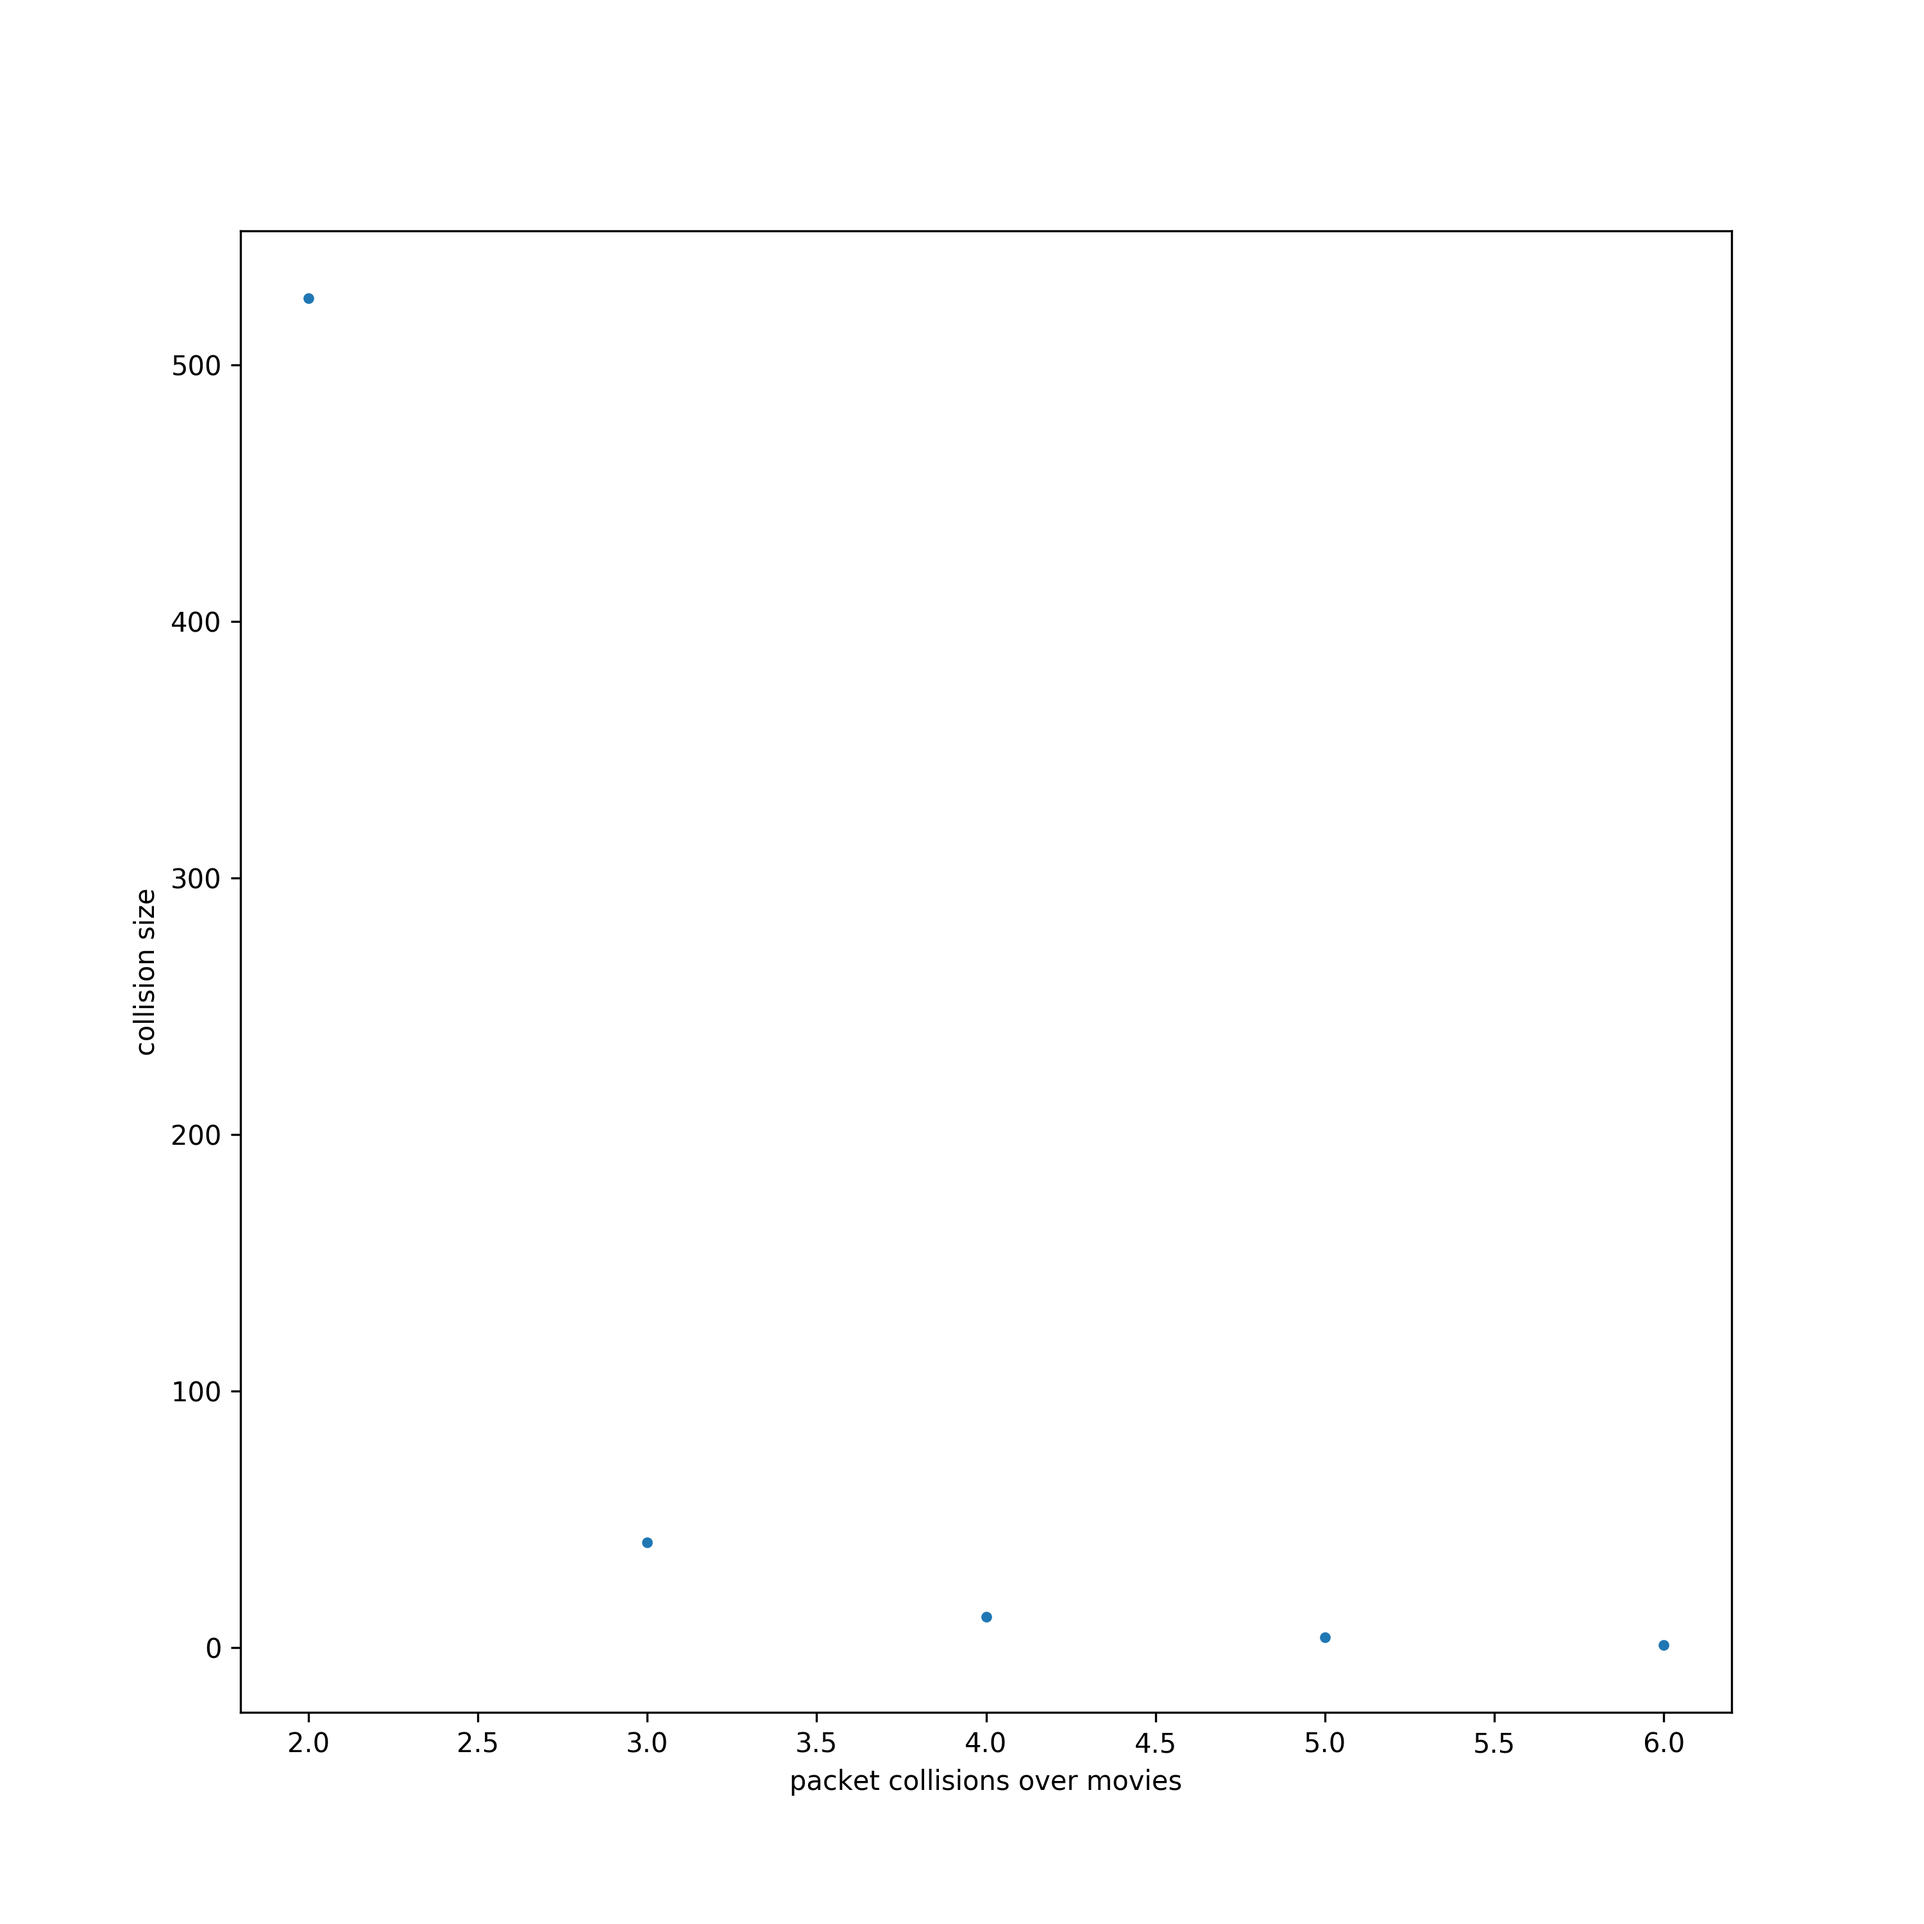
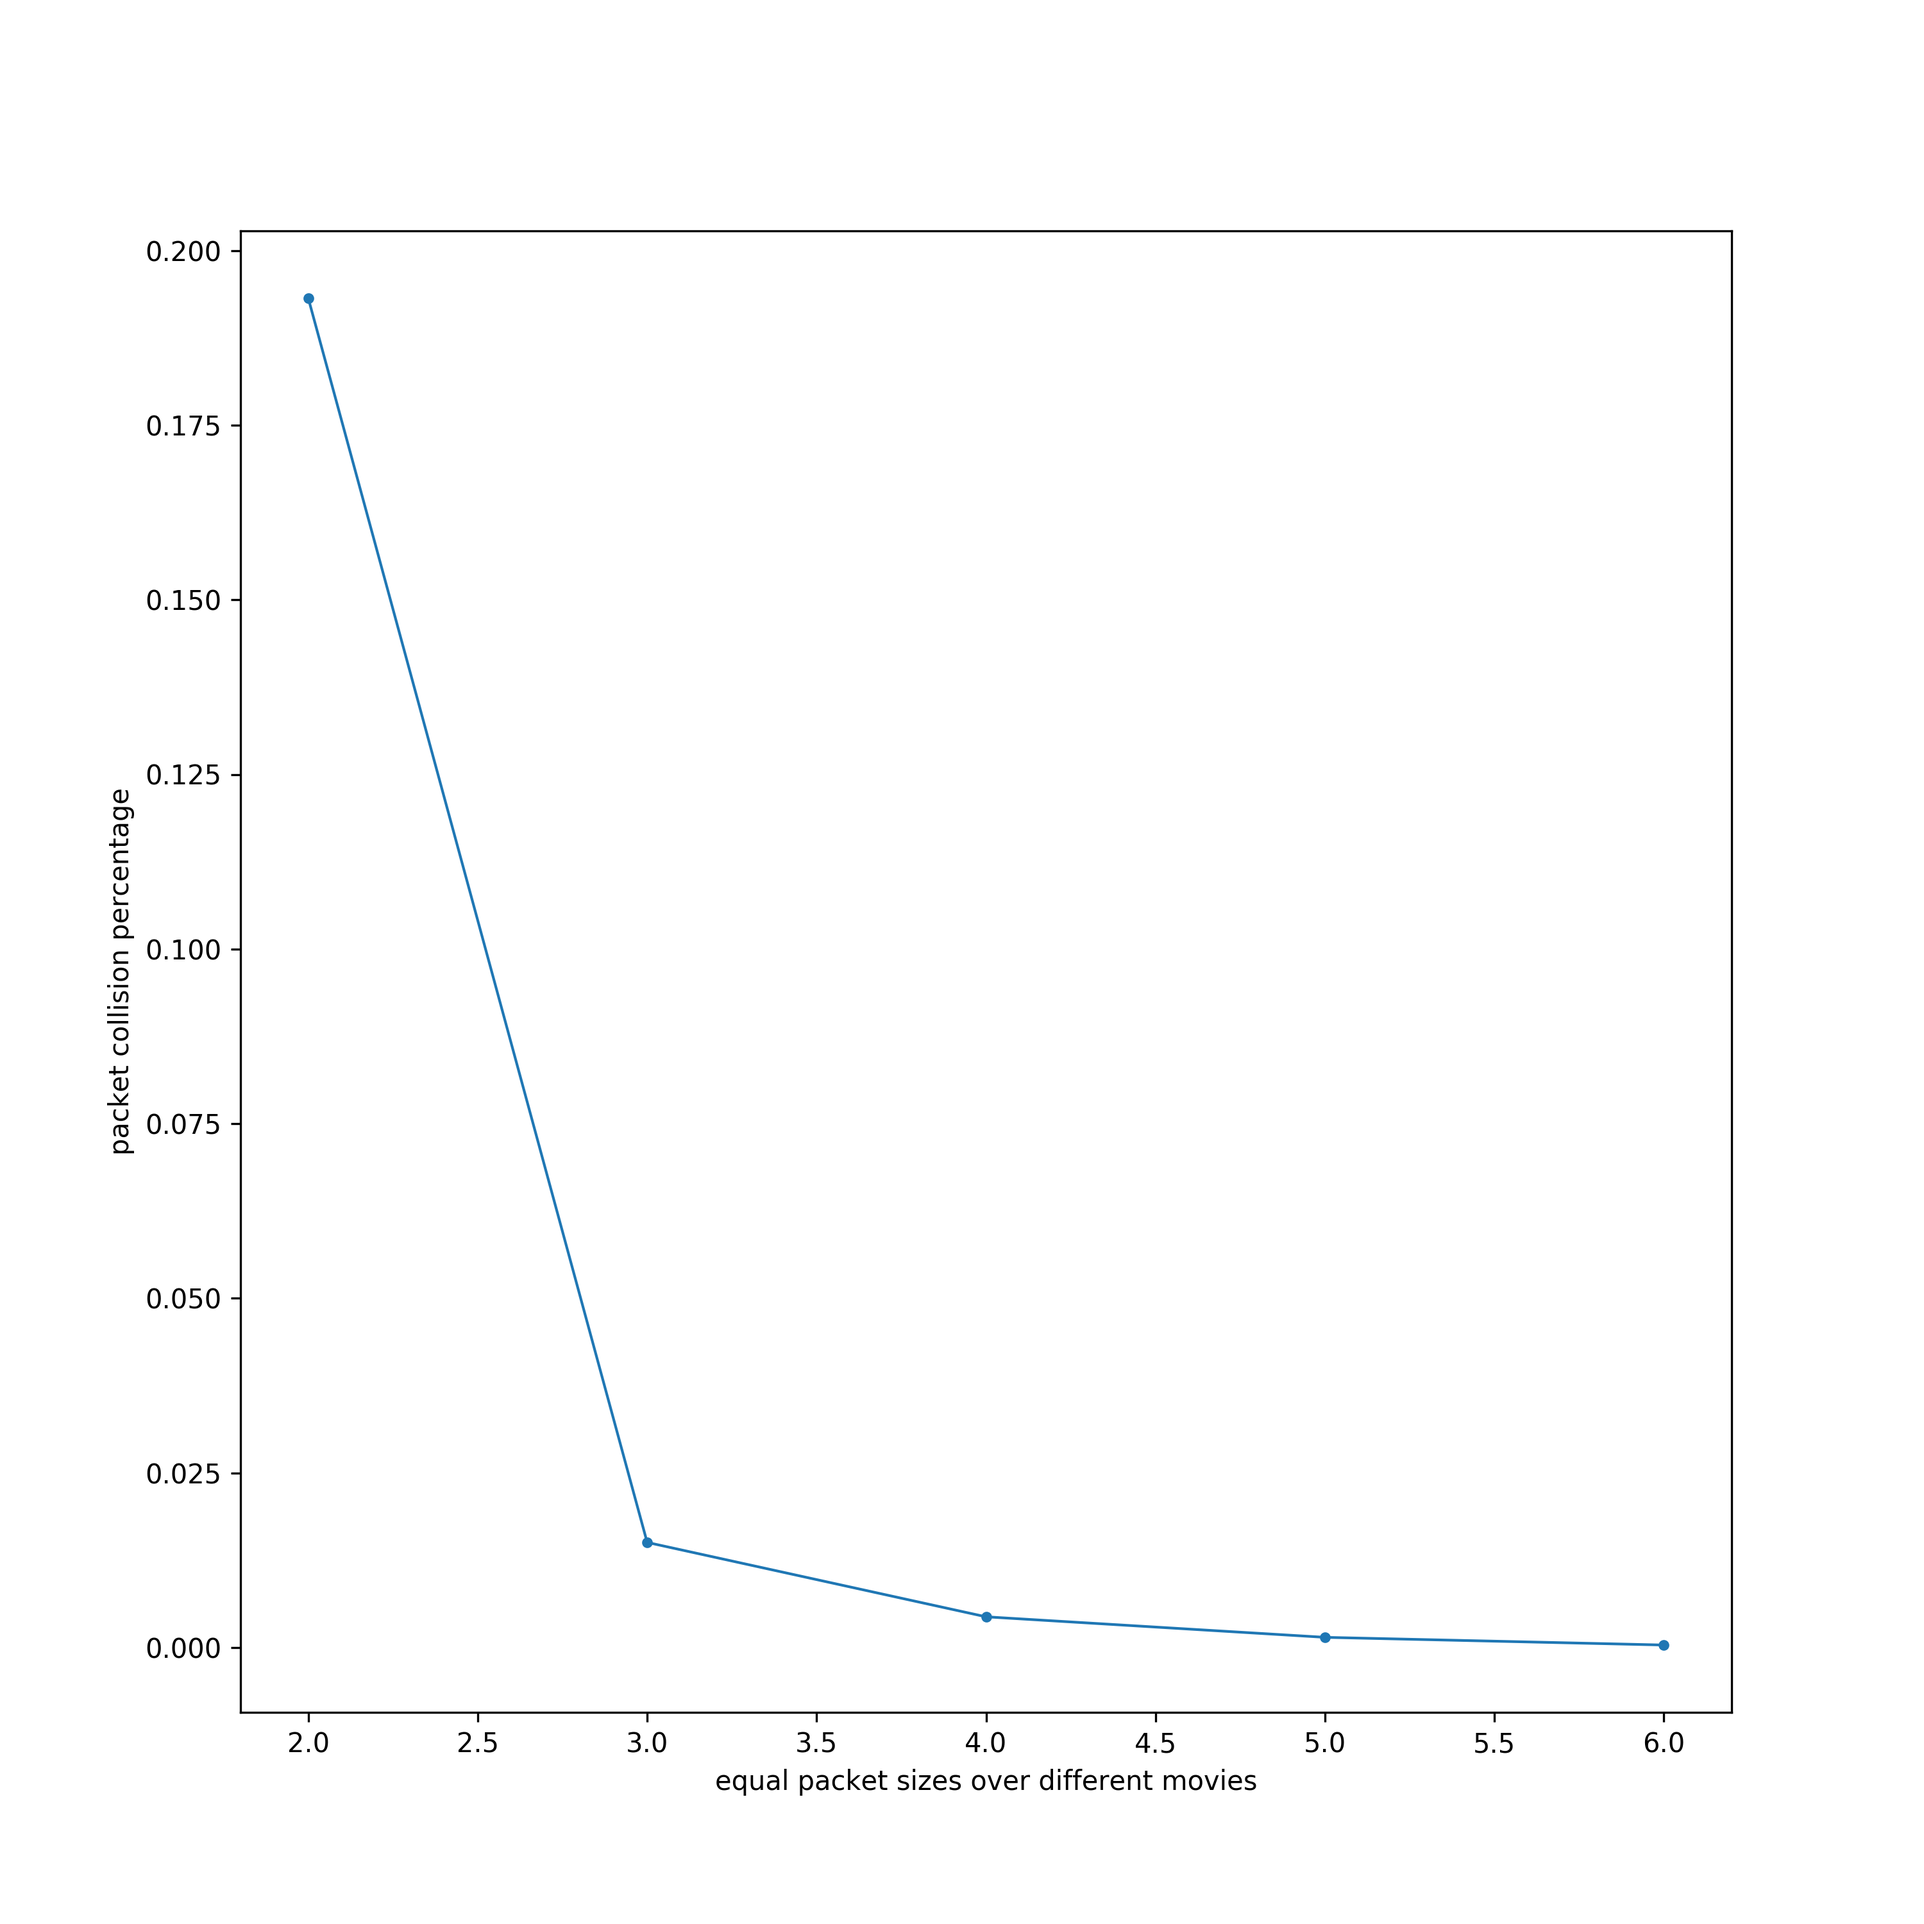
workin on aggregation script

diff --git a/plot_packet_collisions.py b/plot_packet_collisions.py
@@ -1,7 +1,6 @@
 import matplotlib.pyplot as plt
-import hashlib
 import sqlite3
-import json
+from intervaltree import IntervalTree, Interval
 
 from python_libs.config import StaticConfig, Inventory
 
@@ -11,80 +10,129 @@ inventory = Inventory()
 START_AGGREGATION = 1
 LAST_AGGREGATION = 10
 
+EPSILON_STEP = 0.01
+EPSILON_MAX = 0.01
+
+
+# int container because can't override attribute
+class IntContainer:
+    private = 0
+
+    def __str__(self):
+        return str(self.private)
+
+
 # get sqlite connection
 db_file_name = config.captures_dir + "/data.sqlite"
 connection = sqlite3.connect(db_file_name)
 cursor = connection.cursor()
 
 for aggregation in range(START_AGGREGATION, LAST_AGGREGATION + 1):
-    print("starting for aggregation " + str(aggregation))
+    epsilon = 0
 
-    cursor.execute("SELECT DISTINCT movie_id FROM captures")
-    db_movies = cursor.fetchall()
-    total_body_sizes = {}
-    movie_counter = 1
-    for db_movie in db_movies:
-        movie_id = db_movie[0]
-        print("checking " + str(movie_id) + " (" + str(movie_counter) + "/" + str(len(db_movies)) + ")")
-        movie_counter += 1
+    while epsilon < EPSILON_MAX:
+        print("starting for aggregation " + str(aggregation) + " & epsilon " + str(epsilon))
 
-        body_sizes = set()
-        cursor.execute("SELECT bitrate, id FROM captures WHERE movie_id = ? ORDER BY bitrate", [movie_id])
-        db_bitrates = cursor.fetchall()
+        # get count of all indexes packets
+        cursor.execute("SELECT COUNT(*) "
+                       "FROM packets p "
+                       "WHERE aggregation = ?",
+                       [aggregation])
+        total_packet_count_db = cursor.fetchall()
+        total_packet_count = total_packet_count_db[0][0]
 
-        for db_bitrate in db_bitrates:
-            bitrate = db_bitrate[0]
-            capture_id = db_bitrate[1]
+        cursor.execute("SELECT DISTINCT movie_id FROM captures")
+        db_movies = cursor.fetchall()
+        body_sizes_tree = IntervalTree()
+        body_sizes_dict = {}
 
-            print("accumulating " + str(bitrate))
+        movie_counter = 1
+        for db_movie in db_movies:
+            movie_id = db_movie[0]
+            print("checking " + str(movie_id) + " (" + str(movie_counter) + "/" + str(len(db_movies)) + ")")
+            movie_counter += 1
 
-            # get all video package sizes
-            cursor.execute("SELECT p.body_size "
-                           "FROM packets p "
-                           "WHERE p.capture_id = ? AND p.body_size > 0 AND aggregation = ? "
-                           "ORDER BY p.body_size",
-                           [capture_id, aggregation])
+            movie_body_sizes = set()
+            cursor.execute("SELECT bitrate, id FROM captures WHERE movie_id = ? ORDER BY bitrate", [movie_id])
+            db_bitrates = cursor.fetchall()
 
-            db_packets = cursor.fetchall()
+            for db_bitrate in db_bitrates:
+                bitrate = db_bitrate[0]
+                capture_id = db_bitrate[1]
 
-            # create packet ranges
-            for db_packet in db_packets:
-                body_sizes.add(db_packet[0])
+                print("accumulating " + str(bitrate))
 
-        # aggregate
-        for body_size in body_sizes:
-            if body_size not in total_body_sizes:
-                total_body_sizes[body_size] = 0
-            total_body_sizes[body_size] += 1
+                # get all video package sizes
+                cursor.execute("SELECT p.body_size "
+                               "FROM packets p "
+                               "WHERE p.capture_id = ? AND p.body_size > 0 AND aggregation = ? "
+                               "ORDER BY p.body_size",
+                               [capture_id, aggregation])
 
-    # get max collision count
-    max_collision = 1
-    for body_size in total_body_sizes:
-        coll_count = total_body_sizes[body_size]
-        if max_collision < coll_count:
-            max_collision = coll_count
+                db_packets = cursor.fetchall()
 
-    # prepare collision dict
-    collisions = {}
-    for count in range(1, max_collision + 1):
-        collisions[count] = 0
+                # create packet ranges
+                for db_packet in db_packets:
+                    movie_body_sizes.add(db_packet[0])
 
-    # sum up collisions
-    for body_size in total_body_sizes:
-        collisions[total_body_sizes[body_size]] += 1
+            # aggregate
+            for body_size in movie_body_sizes:
+                start = (1 - epsilon) * body_size
+                end = (1 + epsilon) * body_size
 
-    # remove 1 entry
-    collisions.pop(1)
+                if start == end:
+                    if start not in body_sizes_dict:
+                        body_sizes_dict[start] = 0
+                    body_sizes_dict[start] += 1
+                else:
+                    res = body_sizes_tree.search(3, 5, strict=True)
+                    elem = None
+                    if len(res) == 0:
+                        elem = Interval(start, end, IntContainer())
+                        body_sizes_tree.add(elem)
+                    else:
+                        for entry in res:
+                            elem = entry.data
 
-    # prepare plot
-    fig = plt.figure(figsize=(10, 10))
-    plt.xlabel("packet collisions over movies")
-    plt.ylabel("collision size")
-    plt.plot(collisions.keys(), collisions.values(), label=str(aggregation), marker='.', linewidth=0)
+                    elem.data.private += 1
 
-    # save
-    plt.savefig(config.plot_dir + "/collisions_" + str(aggregation) + ".png", dpi=300)
-    plt.close()
-    print("generated plot")
-    print()
-    print()
+        # prepare collision dict
+        collisions = {}
+
+        # sum up collisions in tree
+        for interval in body_sizes_tree:
+            res = body_sizes_tree.search(interval.begin, interval.end)
+            collision_count = len(res) - 1
+            if collision_count not in collisions:
+                collisions[collision_count] = 0
+            collisions[collision_count] += 1
+
+        # sum up collisions in dictionary
+        for entry in body_sizes_dict:
+            collision_count = body_sizes_dict[entry]
+            if collision_count not in collisions:
+                collisions[collision_count] = 0
+            collisions[collision_count] += 1
+
+        # use percentage & correct order in graph
+        figure_collisions = {}
+        for i in range(2, max(collisions.keys())):
+            if i in collisions:
+                figure_collisions[i] = collisions[i] / total_packet_count * 100
+            else:
+                figure_collisions[i] = 0
+
+        # prepare plot
+        fig = plt.figure(figsize=(10, 10))
+        plt.xlabel("equal packet sizes over different movies")
+        plt.ylabel("packet collision percentage")
+        plt.plot(collisions.keys(), collisions.values(), label=str(aggregation), marker='.', linewidth=1)
+
+        # save
+        plt.savefig(config.plot_dir + "/collisions_" + str(aggregation) + "_" + str(epsilon) + ".png", dpi=300)
+        plt.close()
+        print("generated plot")
+        print()
+        print()
+
+        epsilon += EPSILON_STEP

diff --git a/test_interval_tree.py b/test_interval_tree.py
@@ -1,0 +1,31 @@
+from intervaltree import IntervalTree
+from iteration_utilities import tail
+from intervaltree import Interval
+
+
+class IntContainer:
+    private = 0
+
+    def __str__(self):
+        return str(self.private)
+
+    def __iadd__(self, other):
+        self.private += other.private
+
+
+tree = IntervalTree()
+tree.addi(2, 4, IntContainer())  # key: 3, +-1
+tree.addi(3, 5, IntContainer())  # key: 4, +-1
+print(tree.search(3.5))
+res = tree.search(3, 5, strict=True)
+
+if len(res) == 1:
+    for entry in res:
+        entry.data.private += 1
+        print(entry.data)
+
+res = tree.search(3, 5, strict=True)
+if len(res) == 1:
+    for entry in res:
+        entry.data.private += 1
+        print(entry.data)
